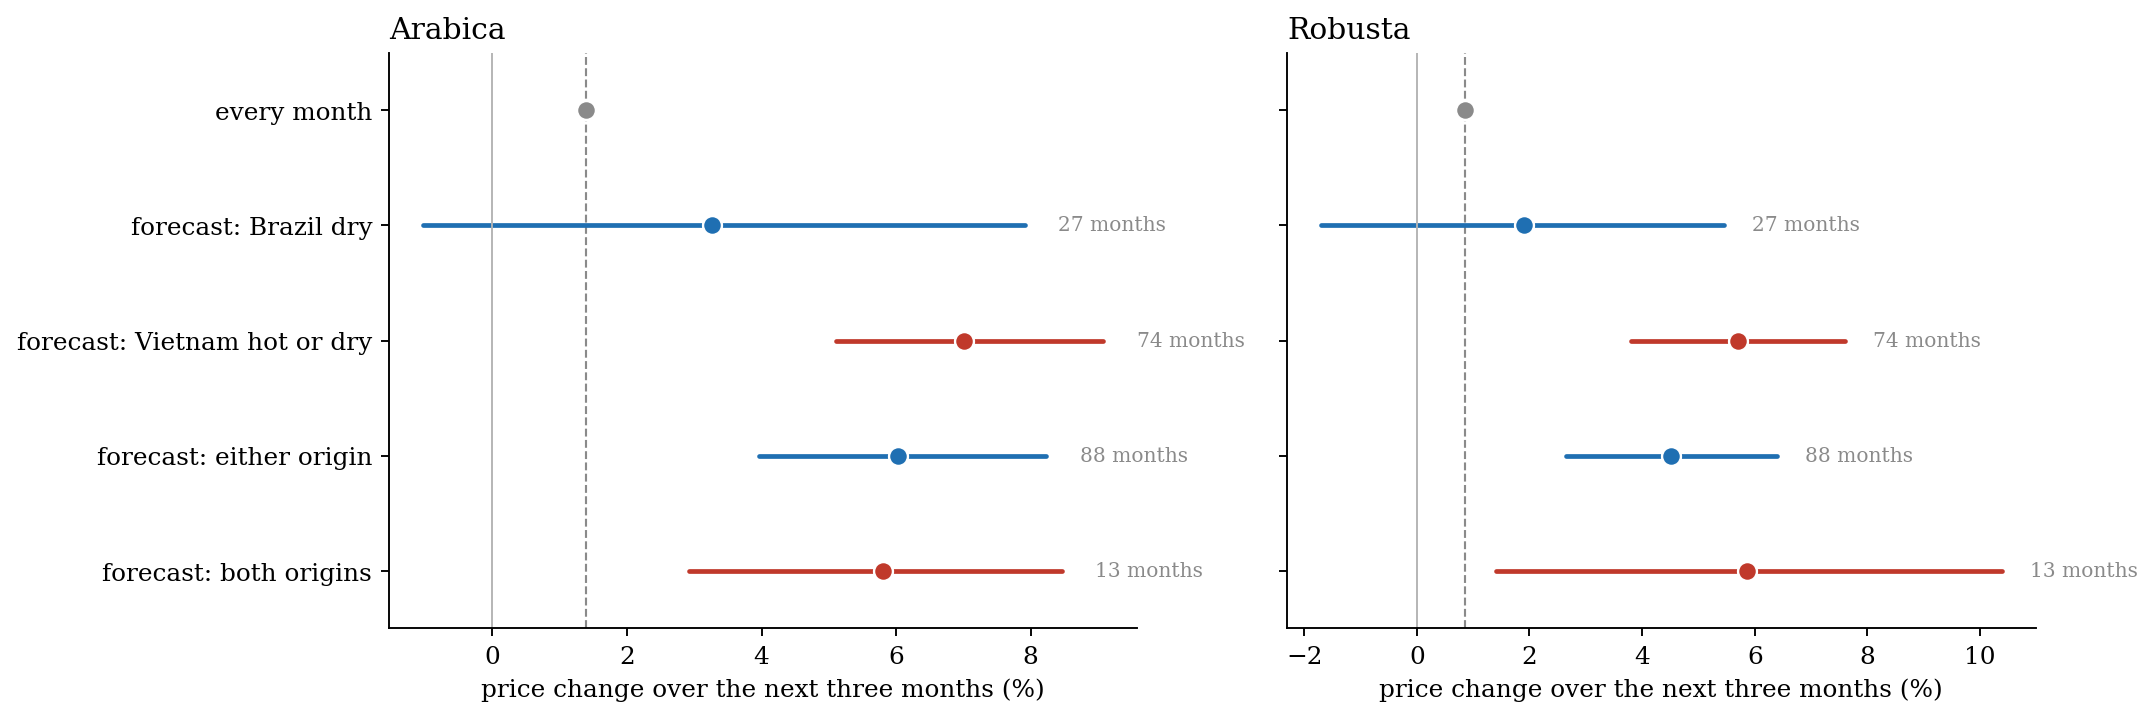
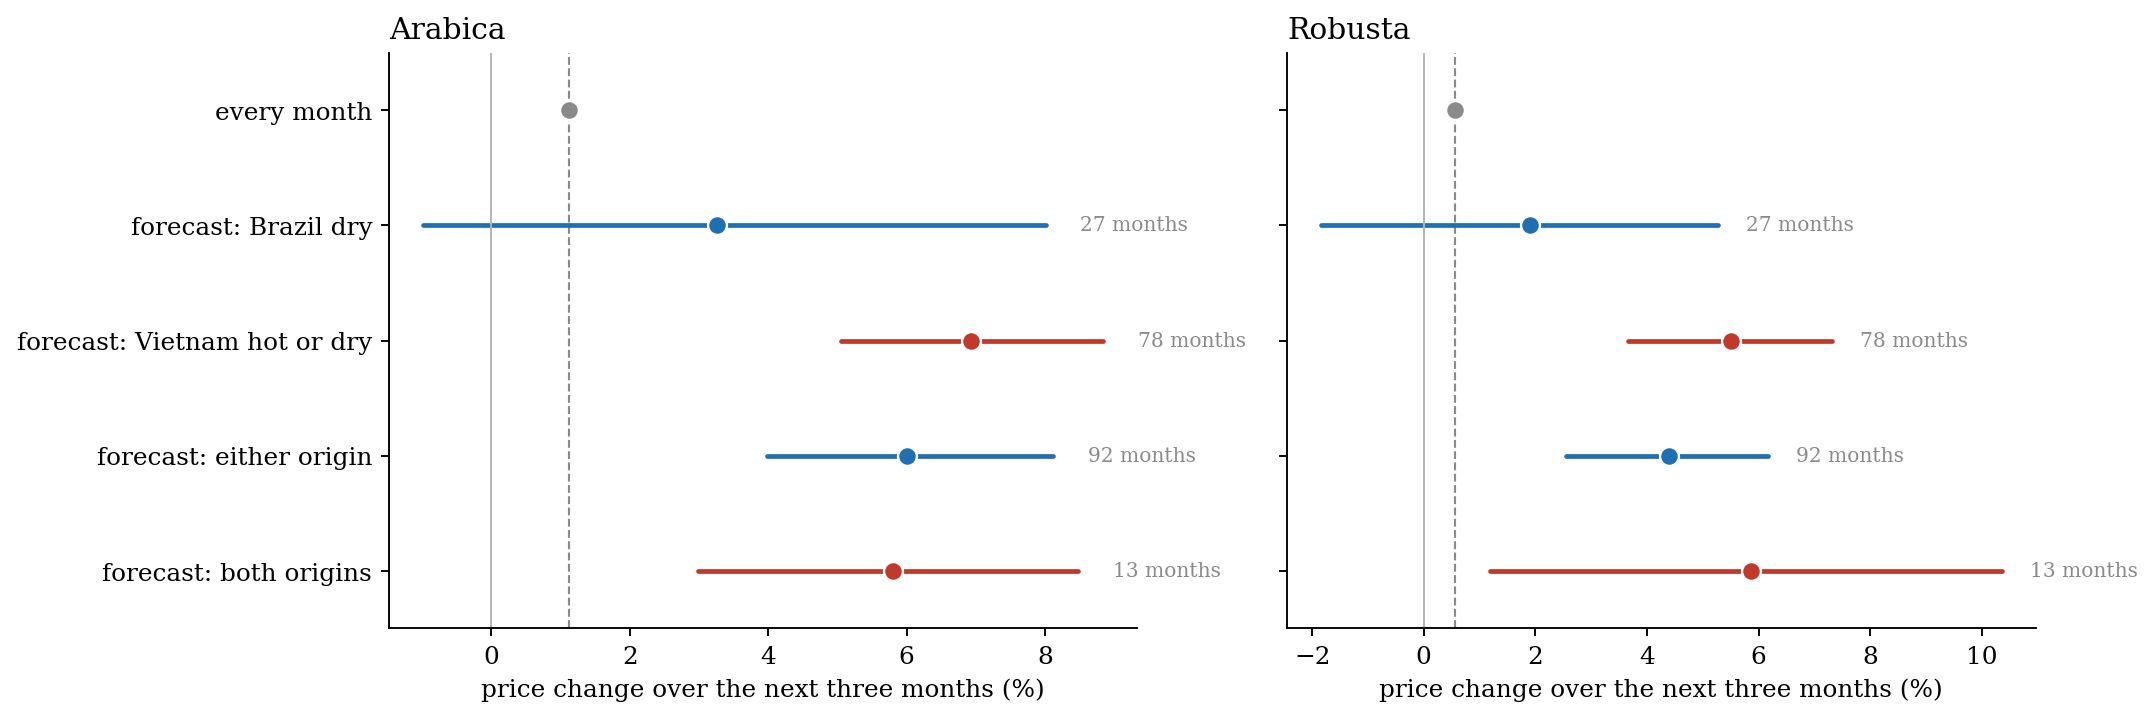
013: SEAS5 2026 forecasts; tail rule through July 2026 and the year month by month

diff --git a/013-coffee-forward-curves/year_2026.py b/013-coffee-forward-curves/year_2026.py
@@ -1,0 +1,57 @@
+#!/usr/bin/env python3
+#-------- year_2026.py --------------------------------------------------------------
+#-----------------------------------------------------------------------------
+# The tail rule in 2026, month by month. Each month's ECMWF SEAS5 forecast of Vietnam heat
+# for the next three months (as standard deviations from the 1993-2016 hindcast normal),
+# against the heat that then happened (ERA5) and the robusta and arabica prices (World Bank
+# Pink Sheet). The rule flags a month when the forecast is above one standard deviation.
+#
+#   python year_2026.py
+#
+# Output: results/year_2026.csv, figures/fig18_2026.png
+
+import os
+
+import numpy as np
+import pandas as pd
+import matplotlib
+matplotlib.use("Agg")
+import matplotlib.pyplot as plt
+
+from seasonal_backtest import build, pink_sheet
+
+HERE = os.path.dirname(os.path.abspath(__file__))
+RES, FIG = os.path.join(HERE, "results"), os.path.join(HERE, "figures")
+NAVY, BLUE, LIGHT, RED, GREY = "#0b2545", "#1f6fb2", "#8cc0e8", "#c0392b", "#8a8a8a"
+
+
+def main():
+    d = build()["2025-07":]
+    px = pink_sheet()["2025-07":]
+    cols = ["vietnam_heat_fc", "vietnam_heat_next3", "brazil_dry_fc", "robusta_next3_raw", "arabica_next3_raw"]
+    d[cols].to_csv(os.path.join(RES, "year_2026.csv"))
+    print(d[cols].round(2).to_string())
+
+    plt.rcParams.update({"font.family": "serif", "font.size": 10.5, "axes.spines.top": False, "axes.spines.right": False})
+    fig, axes = plt.subplots(2, 1, figsize=(12, 7.2), sharex=True, gridspec_kw=dict(hspace=0.15, height_ratios=[1, 1]))
+    ax = axes[0]
+    ax.axhspan(1, max(6, d.vietnam_heat_fc.max() + 0.5), color=RED, alpha=0.07, lw=0)
+    ax.text(d.index[0], 1.15, " flag: forecast above 1 standard deviation", color=RED, fontsize=9)
+    ax.plot(d.index, d.vietnam_heat_fc, "-o", color=RED, lw=1.6, ms=5, label="SEAS5 forecast for the next three months, issued that month")
+    ax.plot(d.index, d.vietnam_heat_next3, "-s", color=NAVY, lw=1.4, ms=4, label="what happened over those three months (ERA5)")
+    ax.axhline(0, color="0.6", lw=0.8)
+    ax.set_ylabel("Vietnam heat, standard deviations"); ax.legend(frameon=False, fontsize=9, loc="upper left")
+    ax.set_title("Vietnam heat in the Central Highlands: forecast and outcome", loc="left")
+    ax = axes[1]
+    for bean, c, ls in [("robusta", BLUE, "-"), ("arabica", NAVY, "--")]:
+        ax.plot(px.index, 100 * px[bean] / px[bean].iloc[0], ls, color=c, lw=1.8, label=bean)
+    flag = d.index[d.vietnam_heat_fc > 1]
+    for t in flag:
+        ax.axvspan(t - pd.Timedelta(days=14), t + pd.Timedelta(days=14), color=RED, alpha=0.12, lw=0)
+    ax.set_ylabel(f"price, {px.index[0]:%B %Y} = 100"); ax.legend(frameon=False, fontsize=9, loc="lower left")
+    ax.set_title("Coffee prices (World Bank Pink Sheet); red: months the rule flagged", loc="left")
+    fig.savefig(os.path.join(FIG, "fig18_2026.png"), dpi=170, bbox_inches="tight"); plt.close(fig)
+
+
+if __name__ == "__main__":
+    main()

diff --git a/013-coffee-forward-curves/tail_rule.py b/013-coffee-forward-curves/tail_rule.py
@@ -7,7 +7,7 @@
 # coffee mainly through rare extremes, so this asks whether the forecast's value is in
 # flagging them rather than in calling every quarter.
 #
-# For every month from 2008 to 2025: the next three months' price change of each bean (what
+# For every month from 2008 to July 2026: the next three months' price change of each bean (what
 # an importer who waited would pay extra), split by whether the forecast flagged the tail.
 # A block bootstrap of the flagged months gives the uncertainty.
 #
@@ -34,7 +34,7 @@ rng = np.random.default_rng(0)
 
 
 def main():
-    df = build()["2008":"2025-09"]
+    df = build()["2008":"2026-07"]
     flags = {"Vietnam hot or dry": (df.vietnam_heat_fc > THRESH) | (df.vietnam_dry_fc > THRESH),
              "Brazil dry": df.brazil_dry_fc > THRESH}
     flags["both origins"] = flags["Vietnam hot or dry"] & flags["Brazil dry"]

diff --git a/013-coffee-forward-curves/README.md b/013-coffee-forward-curves/README.md
@@ -65,11 +65,15 @@ Each quarter from 2008 to 2025, the ECMWF forecast issued that month is fed thro
 - **It helps with the price, a little.** Driven by the forecast, the importer's calls were right 49% of the time for arabica and 50% for robusta, against 43% and 40% with climatology. On average the forecast-driven rule did about 0.6 percentage points of the purchase price better per quarter for arabica and 0.7 for robusta than the climatology rule.
 - **But not enough to rely on alone.** Half the calls were still wrong, and the average saving against simply waiting is close to zero. The weather-price link, a correlation of about 0.15, is too weak for a rule that calls every quarter.
 
-**Where the forecast earns its keep: the tail.** A tail rule buys forward only when the forecast puts an origin beyond one standard deviation of its normal season, and otherwise waits. In the 74 months from 2008 to 2025 when the forecast flagged Vietnam as unusually hot or dry, arabica rose 7.0% over the next three months and robusta 5.7% (90% intervals 5.1-9.1% and 3.8-7.6%), against 1.4% and 0.9% over all months. The result isn't the 2023-25 rally: without those years the flagged months still rose 5.1% and 3.3% while other months fell, and it holds when the forecast's warming drift is removed. A dry-Brazil flag alone isn't reliable (27 months, intervals spanning zero). For an importer, a hot or dry Vietnam forecast is a signal worth hedging on.
+**Where the forecast earns its keep: the tail.** A tail rule buys forward only when the forecast puts an origin beyond one standard deviation of its normal season, and otherwise waits. In the 78 months from 2008 to July 2026 when the forecast flagged Vietnam as unusually hot or dry, arabica rose 6.9% over the next three months and robusta 5.5% (90% intervals 5.1-8.8% and 3.7-7.3%), against 1.1% and 0.6% over all months. The result isn't the 2023-25 rally: checked on 2008-2025, without those years the flagged months still rose 5.1% and 3.3% while other months fell, and it holds when the forecast's warming drift is removed. A dry-Brazil flag alone isn't reliable (27 months, intervals spanning zero). For an importer, a hot or dry Vietnam forecast is a signal worth hedging on.
 
 ![Price change after the forecast flags an extreme season](figures/fig17_tail_rule.png)
 
 `seasonal_backtest.py` · `tail_rule.py`
+
+**2026 so far.** Followed month by month, the rule worked through 2025 and was mixed in 2026. The forecasts issued in July and August 2025 put Vietnam heat above two standard deviations, and robusta rose 26% by November 2025. In 2026 the forecast flagged Vietnam heat from April, and the heat came: the following three months ran 0.9 to 2.2 standard deviations above normal in ERA5. Robusta rose 11% and 8% in the three months after the April and May flags, was flat after June and fell 11% after July, as prices came back from an August peak. The forecasts issued from August to October put Vietnam heat 4 to 5 standard deviations above normal, beyond anything in the record. Part of that is the warming since the 1993-2016 period the forecast is measured against, so the rule's one-standard-deviation line flags far more often in a warmer climate. The next step is to measure each forecast against a recent normal. `year_2026.py`
+
+![Vietnam heat forecasts and outcomes, and coffee prices, July 2025 to November 2026](figures/fig18_2026.png)
 
 ## Earlier findings kept
 
